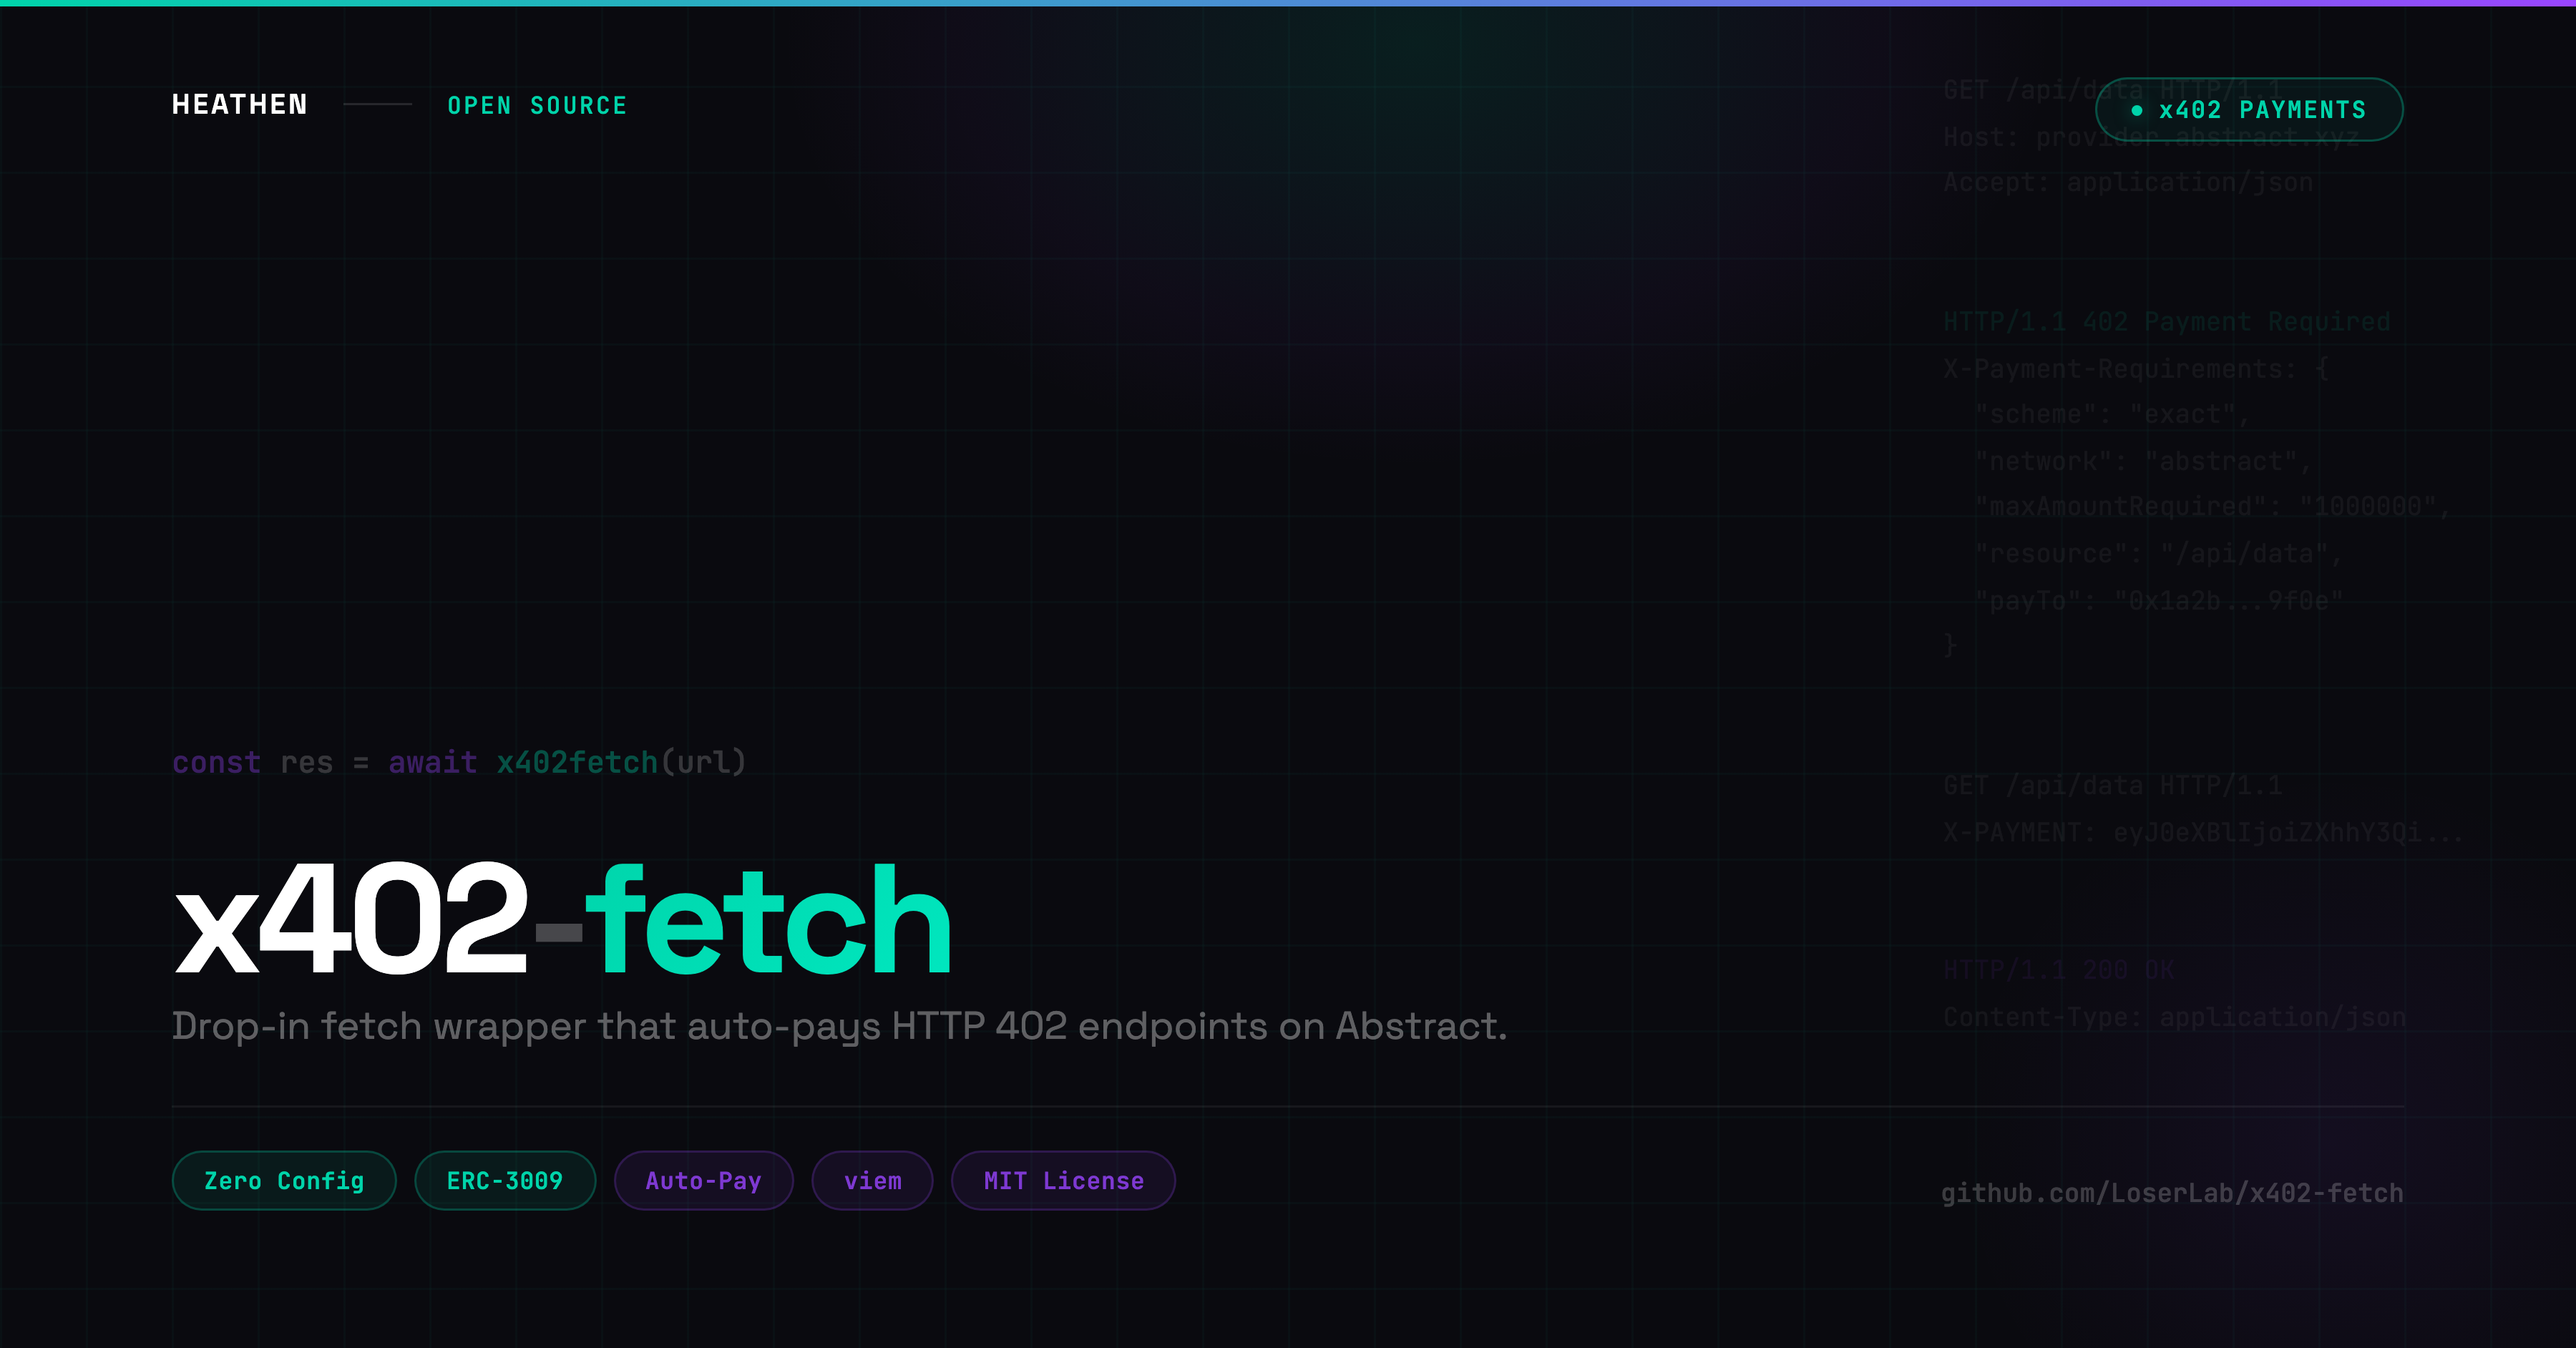
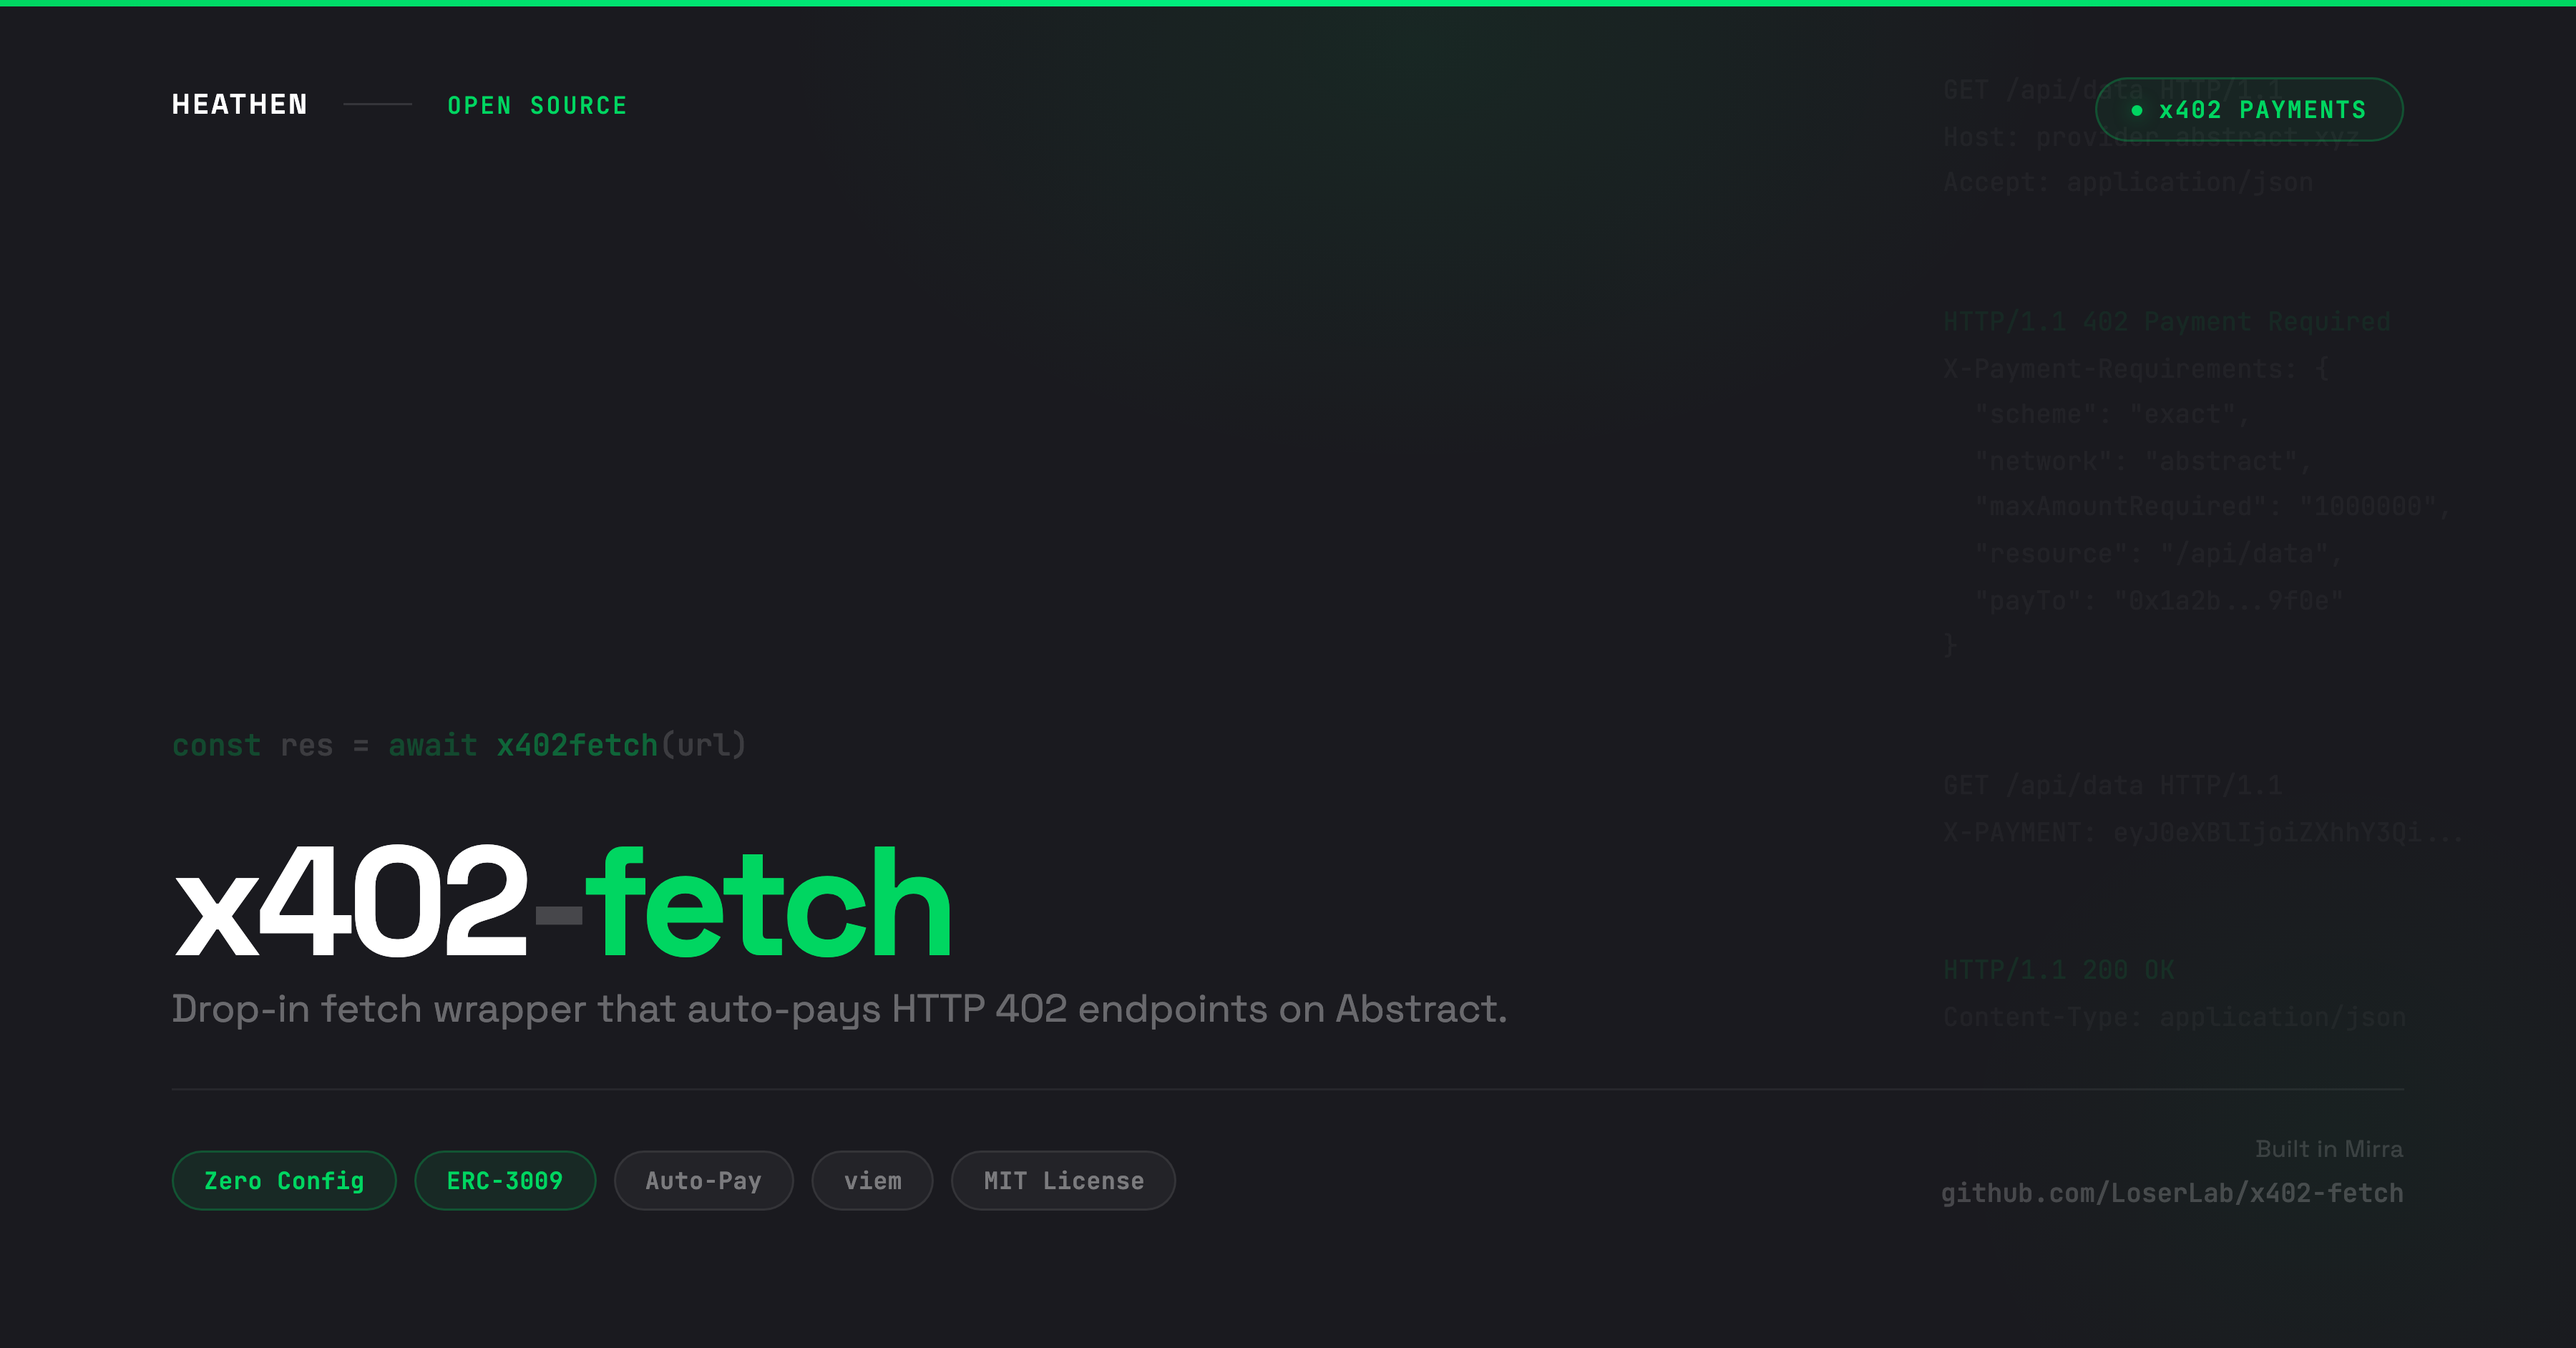
Remove grid overlay from card

diff --git a/social/card.html b/social/card.html
@@ -30,14 +30,7 @@
   }
 
   .grid {
-    position: absolute;
-    inset: 0;
-    background-image:
-      linear-gradient(rgba(0, 214, 97, 0.02) 1px, transparent 1px),
-      linear-gradient(90deg, rgba(0, 214, 97, 0.02) 1px, transparent 1px);
-    background-size: 40px 40px;
-    pointer-events: none;
-    z-index: 1;
+    display: none;
   }
 
   .top-line {
